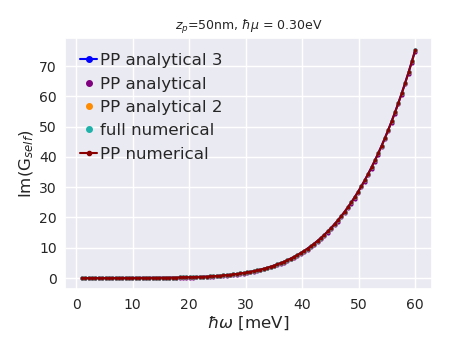
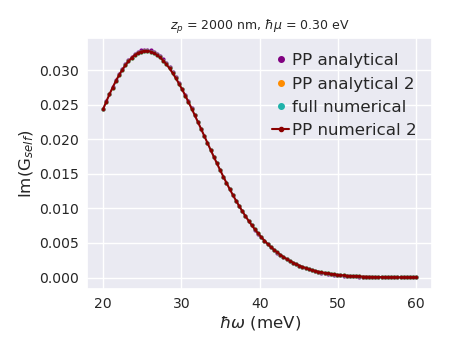
update from icfo dell

diff --git a/graphene/potential_field/potential_and_electric_field/potential_and_electric_field_with_dipole_moment_formula/plot_green_self_image.py b/graphene/potential_field/potential_and_electric_field/potential_and_electric_field_with_dipole_moment_formula/plot_green_self_image.py
@@ -30,7 +30,7 @@ if not os.path.exists(path_save):
 err = 'fieldE_direct_numerical.py no se encuentra en ' + path_basic
 try:
     sys.path.insert(1, path_basic)
-    from green_self_image import green_self_num, green_self_ana,green_self_pole_aprox, green_self_ana2,green_self_ana3
+    from green_self_image import green_self_num, green_self_ana,green_self_pole_aprox,green_self_pole_aprox_v2, green_self_ana2,green_self_ana3
 except ModuleNotFoundError:
     print(err)
 
@@ -54,19 +54,19 @@ int_v = 10
 cota = 75 #nanometros
 epsi1,epsi2 = 1,1
 hbmu,hbgama = 0.3,0.0001
-zp = 0.05
+zp = 2
 
 
 
-title = r'$z_p$=%inm, $\hbar\mu$ = %.2feV' %(zp*1e3,hbmu)
+title = r'$z_p$ = %i nm, $\hbar\mu$ = %.2f eV' %(zp*1e3,hbmu)
 
 N = 100
 
     # z0 = 0.06*1e3
-labelx = r'$\hbar\omega$ [meV]'   
+labelx = r'$\hbar\omega$ (meV)'   
 label1 = 'vs_E' 
 
-listx = np.linspace(1,60,N)
+listx = np.linspace(20,60,N)
 
 
 def function_num_xx_re(energy0):
@@ -148,6 +148,25 @@ def function_pole_aprox_xx_im(energy0):
     return np.imag(rtaself_x)
 
 
+
+
+def function_pole_aprox_xx_re_v2(energy0):
+    omegac0 = energy0*1e-3/aux 
+
+    rtaself_x, rtaself_y, rtaself_z  = green_self_pole_aprox_v2(omegac0,epsi1,epsi2,hbmu,hbgama,zp)
+    
+    return np.real(rtaself_x)
+
+
+
+def function_pole_aprox_xx_im_v2(energy0):
+    omegac0 = energy0*1e-3/aux 
+
+    rtaself_x, rtaself_y, rtaself_z  = green_self_pole_aprox_v2(omegac0,epsi1,epsi2,hbmu,hbgama,zp)
+    
+    return np.imag(rtaself_x)
+
+
 #%%
     
 tamfig = (4.5,3.5)
@@ -179,14 +198,14 @@ listy_re_ana2 = []
 listy_re_ana3 = []
 listy_re_num = []
 listy_re_pole_aprox = []
-
+listy_re_pole_aprox_v2 = []
 
 listy_im_ana = []
 listy_im_ana2 = []
 listy_im_ana3 = []
 listy_im_num = []
 listy_im_pole_aprox = []
-
+listy_im_pole_aprox_v2 = []
 
 for value in listx: 
 
@@ -195,34 +214,37 @@ for value in listx:
     y_re_ana3 = function_ana3_xx_re(value)   
     y_re_num = function_num_xx_re(value)
     y_re_pole_aprox = function_pole_aprox_xx_re(value)
+    y_re_pole_aprox_v2 = function_pole_aprox_xx_re_v2(value)
     
     listy_re_ana.append(y_re_ana)
     listy_re_ana2.append(y_re_ana2)
     listy_re_ana3.append(y_re_ana3)    
     listy_re_num.append(y_re_num)
     listy_re_pole_aprox.append(y_re_pole_aprox)
+    listy_re_pole_aprox_v2.append(y_re_pole_aprox_v2)
 
     y_im_ana = function_ana_xx_im(value)       
     y_im_ana2 = function_ana2_xx_im(value)   
     y_im_ana3 = function_ana3_xx_im(value)   
     y_im_num = function_num_xx_im(value)
     y_im_pole_aprox = function_pole_aprox_xx_im(value)
+    y_im_pole_aprox_v2 = function_pole_aprox_xx_im_v2(value)
 
     listy_im_ana.append(y_im_ana)
     listy_im_ana2.append(y_im_ana2)
     listy_im_ana3.append(y_im_ana3)
     listy_im_num.append(y_im_num)
     listy_im_pole_aprox.append(y_im_pole_aprox)
-    
+    listy_im_pole_aprox_v2.append(y_im_pole_aprox_v2)
     
     
 #%%
 graph(title,labelx,r'Re(G$_{self}$)',tamfig,tamtitle,tamletra,tamnum,labelpadx,labelpady,pad)
-plt.plot(listx,listy_re_ana3,'.-',ms = ms,color = 'blue',label = 'PP analytical 3')
+#plt.plot(listx,listy_re_ana3,'.-',ms = ms,color = 'blue',label = 'PP analytical 3')
 plt.plot(listx,listy_re_ana,'.',ms = ms,color = 'purple',label = 'PP analytical')
 plt.plot(listx,listy_re_ana2,'.',ms = ms,color = 'darkorange',label = 'PP analytical 2')
 plt.plot(listx,listy_re_num,'.',ms = ms,color = 'lightseagreen',label = 'full numerical')
-plt.plot(listx,listy_re_pole_aprox,'.-',ms = 3,color = 'darkred',label = 'PP numerical')
+plt.plot(listx,listy_re_pole_aprox_v2,'.-',ms = 3,color = 'darkred',label = 'PP numerical 2')
 plt.legend(loc = 'best',markerscale=2,fontsize=tamlegend,frameon=0,handletextpad=0.2, handlelength=length_marker)
 plt.tight_layout()
 #    plt.yscale('log')
@@ -231,11 +253,11 @@ plt.savefig( 'Re_Gself' + label1 + '.png', format='png')
 
 
 graph(title,labelx,r'Im(G$_{self}$)',tamfig,tamtitle,tamletra,tamnum,labelpadx,labelpady,pad)
-plt.plot(listx,listy_im_ana3,'.-',ms = ms,color = 'blue',label = 'PP analytical 3')
+#plt.plot(listx,listy_im_ana3,'.-',ms = ms,color = 'blue',label = 'PP analytical 3')
 plt.plot(listx,listy_im_ana,'.',ms = ms,color = 'purple',label = 'PP analytical')
 plt.plot(listx,listy_im_ana2,'.',ms = ms,color = 'darkorange',label = 'PP analytical 2')
 plt.plot(listx,listy_im_num,'.',ms = ms,color = 'lightseagreen',label = 'full numerical')
-plt.plot(listx,listy_im_pole_aprox,'.-',ms = 3,color = 'darkred',label = 'PP numerical')
+plt.plot(listx,listy_im_pole_aprox_v2,'.-',ms = 3,color = 'darkred',label = 'PP numerical 2')
 plt.legend(loc = 'best',markerscale=2,fontsize=tamlegend,frameon=0,handletextpad=0.2, handlelength=length_marker)
 plt.tight_layout()
 #    plt.yscale('log')

diff --git a/graphene/potential_field/potential_and_electric_field/potential_and_electric_field_with_dipole_moment_formula/green_self_image.py b/graphene/potential_field/potential_and_electric_field/potential_and_electric_field_with_dipole_moment_formula/green_self_image.py
@@ -77,8 +77,9 @@ def green_self_num(omegac,epsi1,epsi2,hbmu,hbgama,zp):
 #    rs = lambda u: rs_num(u)/rs_den(u)
 
 
-    cota_sup1 = 400
-    cota_inf1 = 0.01
+    cota_sup1 = 300*omegac
+    cota_inf1 = 0.001*omegac
+    
     
 ####       
     cte_x = k1_3*0.5 #signo menos
@@ -90,8 +91,8 @@ def green_self_num(omegac,epsi1,epsi2,hbmu,hbgama,zp):
     IntselfB_function_re_xx = lambda u: np.real((u**2)*rp(u)*expB_self(u))
     IntselfB_function_im_xx = lambda u: np.imag((u**2)*rp(u)*expB_self(u))
 
-    intselfB_re_x,err = integrate.quad(IntselfB_function_re_xx, cota_inf1, cota_sup1)
-    intselfB_im_x,err = integrate.quad(IntselfB_function_im_xx, cota_inf1, cota_sup1)
+    intselfB_re_x,err = integrate.quad(IntselfB_function_re_xx, cota_inf1, cota_sup1,limit = 150)
+    intselfB_im_x,err = integrate.quad(IntselfB_function_im_xx, cota_inf1, cota_sup1,limit = 150)
 #    
 #    print(intselfB_re_x)
     
@@ -218,8 +219,8 @@ def green_self_pole_aprox(omegac,epsi1,epsi2,hbmu,hbgama,zp):
 #    rs_den = lambda u: 1j*u + 1j*u + cond/cte1
 #    rs = lambda u: rs_num(u)/rs_den(u)
 
-    cota_sup1 = 400
-    cota_inf1 = 0.01
+    cota_sup1 = 300*omegac
+    cota_inf1 = 0.01*omegac
     
 ####       
     cte_x = k1_3*0.5 #signo menos
@@ -243,6 +244,88 @@ def green_self_pole_aprox(omegac,epsi1,epsi2,hbmu,hbgama,zp):
     
 
     return rtaself_x, rtaself_y, rtaself_z
+
+
+
+
+
+
+
+## rp = Rp*u/(u - alfa_p) 
+
+def green_self_pole_aprox_v2(omegac,epsi1,epsi2,hbmu,hbgama,zp):
+    """
+    Parameters
+    ----------
+    omegac : omega/c = k0 en 1/micrometros    
+    epsi1 : epsilon del medio de arriba del plano
+    epsi2 : epsilon del medio de abajo del plano
+    hbmu : chemical potential in eV  
+    hbgama : collision frequency in eV
+    int_v : fraccion de la vel de la c que vale la velocidad uniforme del electron en x, si v = c/int
+    b: electron position en z, b < 0 (dipolo en 0 y eje de z apunta hacia abajo) 
+    zp : coordenada zp del plano, zp > 0  (dipolo en 0 y eje de z apunta hacia abajo) 
+    x : punto x donde miramos el campo en micrones
+    omega0 : resonant frequency 
+    kappa_factor_omega0 : kappa (collision frequency) = kappa_factor*omega0
+    kappa_r_factor : kappa_r = kappa_r_factor*kappa with kappa_r_factor<1    
+    Returns
+    -------
+    alfa effectivo en QE approx
+    """
+
+    E = omegac*aux  
+    n1 = epsi1*mu1
+    cte1 = np.sqrt(n1)
+    k1 = omegac*cte1
+    k1_3 = k1**3
+
+    cond = 4*np.pi*alfac*sigma_DL(E,hbmu,hbgama)
+    Rp = 2*epsi1/(epsi1 + epsi2)
+    alfa_p = 1j*(epsi1 + epsi2)/(cond*cte1)
+
+    rp = lambda u: Rp*u/(u - alfa_p)   
+    rp_real = lambda u: Rp*(u - np.real(alfa_p))/( (u - np.real(alfa_p))**2 + np.imag(alfa_p)**2 )   
+    rp_imag = lambda u: Rp*np.imag(alfa_p)/( (u - np.real(alfa_p))**2 + np.imag(alfa_p)**2 )   
+    
+    rp_real = lambda u: np.real(rp(u))
+    rp_imag = lambda u: np.imag(rp(u))   
+    
+#    print(np.real(rp(10)))
+    
+#    rs_num = lambda u: 1j*u - 1j*u - cond/cte1
+#    rs_den = lambda u: 1j*u + 1j*u + cond/cte1
+#    rs = lambda u: rs_num(u)/rs_den(u)
+
+    cota_sup1 = 300*omegac
+    cota_inf1 = 0.001*omegac
+    
+####       
+    cte_x = k1_3*0.5 #signo menos
+
+    
+    z_dip_barra_self = k1*2*zp  #NO ESTOY SEGURA DE ESTA EXPONENCIAL EH 
+    expB_self = lambda u: np.exp(-u*z_dip_barra_self) 
+
+    IntselfB_function_re_xx = lambda u: u**2*rp_real(u)*expB_self(u)
+    IntselfB_function_im_xx = lambda u: u**2*rp_imag(u)*expB_self(u)
+
+    intselfB_re_x,err = integrate.quad(IntselfB_function_re_xx, cota_inf1, cota_sup1)
+    intselfB_im_x,err = integrate.quad(IntselfB_function_im_xx, cota_inf1, cota_sup1)
+    
+#    print(intselfB_re_x)
+    
+    
+    rtaself_x = (intselfB_re_x + 1j*intselfB_im_x)*cte_x
+    rtaself_y = rtaself_x
+    rtaself_z = 2*rtaself_x
+    
+
+    return rtaself_x, rtaself_y, rtaself_z
+
+
+
+
 
 #%%
 
@@ -297,7 +380,10 @@ def green_self_ana(omegac,epsi1,epsi2,hbmu,hbgama,zp):
 
     z_dip_barra_self = k1*2*zp  #NO ESTOY SEGURA DE ESTA EXPONENCIAL EH 
     expB_self = np.exp(-alfa_p*z_dip_barra_self) 
-
+#    expB_self = 1 - 2*kp*zp + (2*kp*zp)**2/2
+    print(np.real(kp), np.imag(kp))
+    
+#    rtaself_x = (omegac**3)*3*2*((2*kp*zp)**(-4))*(np.pi*1j*Rp)/2
     
     rtaself_x = expB_self*cte_x
     rtaself_y = rtaself_x
